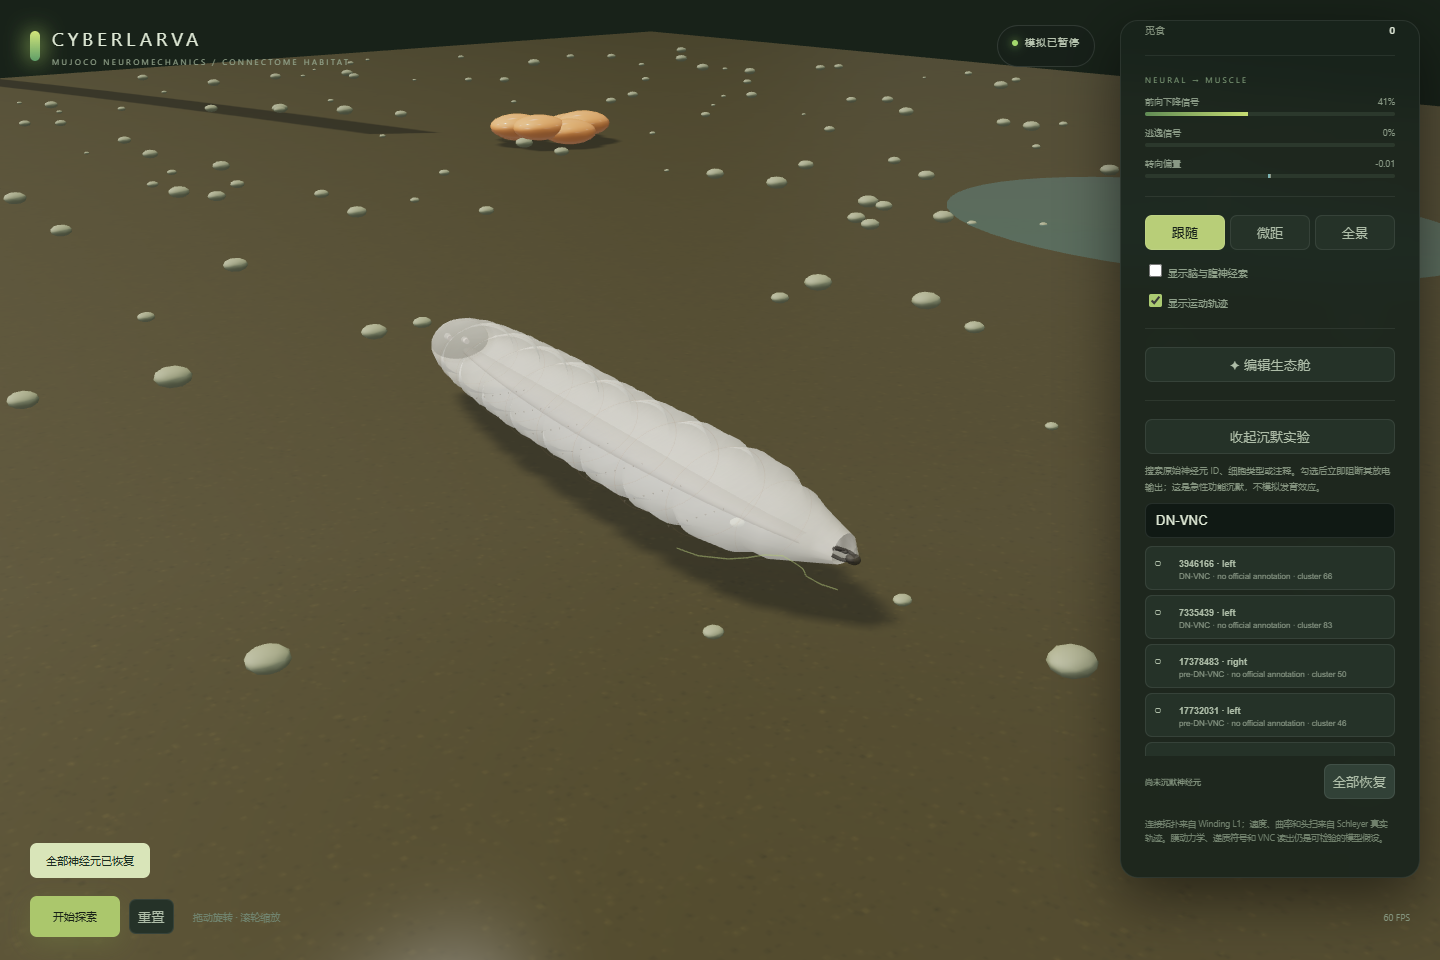
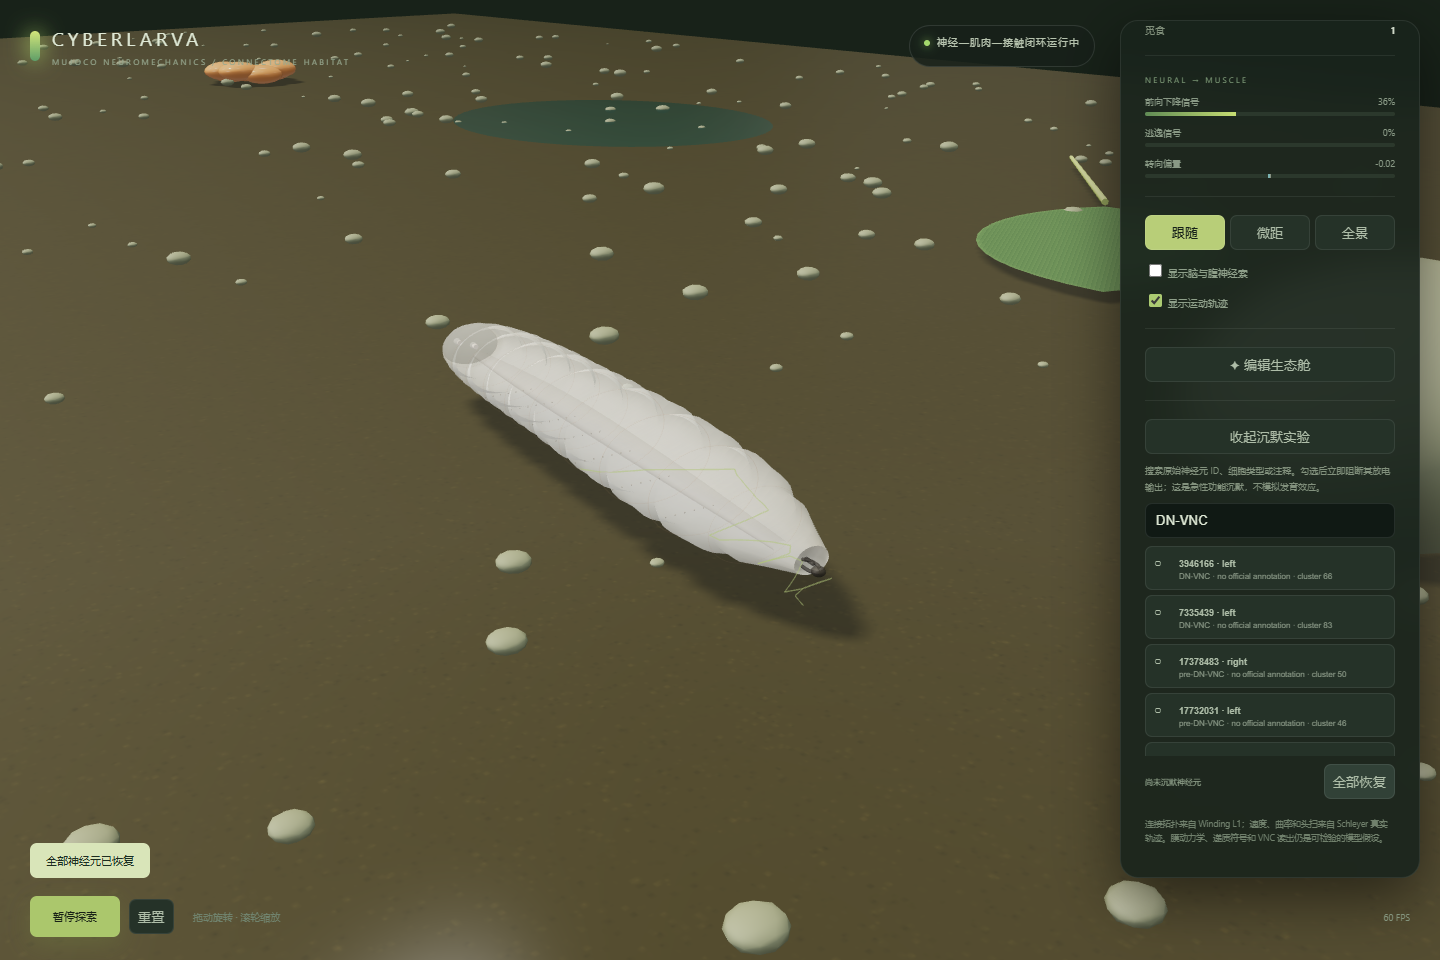
Fix larva gait food refresh and overview camera

diff --git a/web/main.js b/web/main.js
@@ -49,7 +49,7 @@ async function poll(){try{latest=await(await fetch('/api/state')).json();if(late
  if(pathLine){scene.remove(pathLine);pathLine.geometry.dispose()}pathLine=new T.Line(new T.BufferGeometry().setFromPoints(latest.trail.map(p=>new T.Vector3(p[0],.025,p[1]))),pathMat);pathLine.visible=$('trail').checked;scene.add(pathLine);
  }catch(e){$('status').textContent='本地服务连接中断'}setTimeout(poll,100)}
 buildWorld(await(await fetch('/api/world')).json());latest=await(await fetch('/api/state')).json();camera.position.set(14,3.2,13);controls.target.set(11.4,.2,9.4);controls.update();poll();setTimeout(()=>view('follow'),350);
-function view(v){let target=v==='overview'?segMeshes[0].position.clone():segMeshes[v==='macro'?3:4].position.clone(),off=v==='macro'?new T.Vector3(1.6,.7,1.35):v==='overview'?new T.Vector3(12,18,12):new T.Vector3(2.25,1.25,2.05);controls.target.copy(target);camera.position.copy(target).add(off);follow=v!=='overview';for(let k of ['follow','macro','overview'])$(k).classList.toggle('selected',k===v)}for(let k of ['follow','macro','overview'])$(k).onclick=()=>view(k);
+function view(v){let target,off;if(v==='overview'){let w=mapData?.grid?.[0]?.length||24,h=mapData?.grid?.length||20,span=Math.max(w,h);target=new T.Vector3(w/2,0,h/2);off=new T.Vector3(span*.52,span*.70,span*.52)}else{target=segMeshes[v==='macro'?3:4].position.clone();off=v==='macro'?new T.Vector3(1.6,.7,1.35):new T.Vector3(2.25,1.25,2.05)}controls.target.copy(target);camera.position.copy(target).add(off);controls.enablePan=v==='overview';controls.minDistance=v==='overview'?4:.7;controls.maxDistance=v==='overview'?60:42;controls.update();follow=v!=='overview';window.cyberLarvaView={mode:v,target:target.toArray(),position:camera.position.toArray()};for(let k of ['follow','macro','overview'])$(k).classList.toggle('selected',k===v)}for(let k of ['follow','macro','overview'])$(k).onclick=()=>view(k);
 $('play').onclick=()=>cmd({action:'pause',value:!latest.paused});$('reset').onclick=()=>cmd({action:'reset'});$('neural').onchange=()=>neuralGroup.visible=$('neural').checked;$('trail').onchange=()=>{if(pathLine)pathLine.visible=$('trail').checked};
 const tools=[['food','食物'],['leaf','叶片'],['rock','岩石'],['fungus','菌簇'],['puddle','水洼'],['wall','障碍'],['floor','清墙'],['spawn','出生点']];for(let [k,n] of tools){let b=document.createElement('button');b.textContent=n;b.classList.toggle('selected',k===selected);b.onclick=()=>{selected=k;[...$('palette').children].forEach(x=>x.classList.toggle('selected',x===b))};$('palette').appendChild(b)}$('editor').onclick=async()=>{editing=!editing;$('editpanel').hidden=!editing;$('editor').textContent=editing?'完成编辑':'✦ 编辑生态舱';if(editing){await cmd({action:'pause',value:true});view('overview');toast('单击放置，右键擦除')}};for(let a of ['save','load','garden'])$(a).onclick=()=>cmd({action:a}).then(()=>toast({save:'地图已保存',load:'地图已载入',garden:'自然生态舱已复原'}[a])).catch(e=>toast(e.message));
 let lesionOpen=false,neuronTimer;async function loadNeurons(){let q=encodeURIComponent($('neuronsearch').value.trim()),data=await(await fetch('/api/neurons?q='+q+'&limit=80')).json(),box=$('neuronresults');box.replaceChildren();for(let n of data.neurons){let b=document.createElement('button'),mark=document.createElement('span'),copy=document.createElement('span'),title=document.createElement('b'),meta=document.createElement('small');b.className='neuron'+(n.disabled?' selected':'');mark.textContent=n.disabled?'✓':'○';title.textContent=(n.name?n.name+' · ':'')+(n.id||n.index)+(n.side?' · '+n.side:'');meta.textContent=[n.celltype,n.annotations,n.ontology_id,n.cluster&&('cluster '+n.cluster)].filter(Boolean).join(' · ')||('connectome index '+n.index);copy.append(title,meta);b.append(mark,copy);b.title=n.reported_function||'';b.onclick=async()=>{await cmd({action:'knockout',mode:n.disabled?'remove':'add',indices:[n.index]});await loadNeurons();toast(n.disabled?'神经元已恢复':'神经元已沉默')};box.appendChild(b)}$('kosummary').textContent=data.knockout.count?('已沉默 '+data.knockout.count+' 个神经元'):'尚未沉默神经元'}$('lesion').onclick=()=>{lesionOpen=!lesionOpen;$('lesionpanel').hidden=!lesionOpen;$('lesion').textContent=lesionOpen?'收起沉默实验':'◇ 神经元沉默实验';if(lesionOpen)loadNeurons()};$('neuronsearch').oninput=()=>{clearTimeout(neuronTimer);neuronTimer=setTimeout(loadNeurons,180)};$('clearKO').onclick=async()=>{await cmd({action:'clear_knockout'});await loadNeurons();toast('全部神经元已恢复')};
@@ -60,15 +60,15 @@ function animate(now){requestAnimationFrame(animate);let dt=Math.min(.05,(now-la
   for(let i=0;i<11;i++){let p=latest.segments[i],s=segMeshes[i];s.position.lerp(new T.Vector3(p.x,p.z,p.y),1-Math.exp(-dt*18));nerveNodes[i].position.copy(s.position).add(new T.Vector3(0,.015,0));nerveNodes[i].scale.setScalar(.010+p.muscle*.012);pts.push(nerveNodes[i].position.clone())}
   const curve=new T.CatmullRomCurve3(segMeshes.map(s=>s.position.clone()),false,'centripetal'),point=new T.Vector3(),tangent=new T.Vector3(),side=new T.Vector3();
   // Resample the 11 MuJoCo bodies into a smooth, high-resolution living skin.
-  for(let i=0;i<skinRings;i++){let t=i/(skinRings-1),x=t*10,lo=Math.min(9,Math.floor(x)),f=x-lo,m=T.MathUtils.lerp(latest.segments[lo].muscle,latest.segments[lo+1].muscle,f);curve.getPointAt(t,point);curve.getTangentAt(t,tangent);side.set(-tangent.z,0,tangent.x).normalize();let d=x-Math.round(x),groove=Math.exp(-Math.pow(d/.13,2)),shoulder=Math.exp(-Math.pow((Math.abs(d)-.23)/.085,2)),seam=Math.min(t,1-t)>.025?1-.125*groove+.032*shoulder:1,r=profileRadius(t)*(1-m*.06)*seam;for(let j=0;j<skinSides;j++){let a=j/skinSides*Math.PI*2,vertical=Math.sin(a),micro=1+.006*Math.sin(t*163+Math.sin(a*7)*1.7)+.0035*Math.sin(a*17+t*53),height=r*(vertical>0?.80:.62)*micro,lobing=(1+.015*Math.cos(a*2))*micro,v=point.clone().addScaledVector(side,Math.cos(a)*r*lobing).addScaledVector(up,vertical*height+.003*Math.sin(t*Math.PI));let k=(i*skinSides+j)*3;skinPos[k]=v.x;skinPos[k+1]=v.y;skinPos[k+2]=v.z}}
-  curve.getPointAt(0,point);curve.getTangentAt(0,tangent).negate();point.addScaledVector(tangent,.038);skinPos[headCenter*3]=point.x;skinPos[headCenter*3+1]=point.y;skinPos[headCenter*3+2]=point.z;curve.getPointAt(1,point);curve.getTangentAt(1,tangent);point.addScaledVector(tangent,.040);skinPos[tailCenter*3]=point.x;skinPos[tailCenter*3+1]=point.y;skinPos[tailCenter*3+2]=point.z;skinGeo.attributes.position.needsUpdate=true;skinGeo.computeVertexNormals();
+  for(let i=0;i<skinRings;i++){let t=i/(skinRings-1),x=t*10,lo=Math.min(9,Math.floor(x)),f=x-lo,m=T.MathUtils.lerp(latest.segments[lo].muscle,latest.segments[lo+1].muscle,f);curve.getPoint(t,point);curve.getTangent(t,tangent);side.set(-tangent.z,0,tangent.x).normalize();let d=x-Math.round(x),groove=Math.exp(-Math.pow(d/.13,2)),shoulder=Math.exp(-Math.pow((Math.abs(d)-.23)/.085,2)),seam=Math.min(t,1-t)>.025?1-.125*groove+.032*shoulder:1,r=profileRadius(t)*(1+m*.13)*seam;for(let j=0;j<skinSides;j++){let a=j/skinSides*Math.PI*2,vertical=Math.sin(a),micro=1+.006*Math.sin(t*163+Math.sin(a*7)*1.7)+.0035*Math.sin(a*17+t*53),height=r*(vertical>0?.80:.62)*micro,lobing=(1+.015*Math.cos(a*2))*micro,v=point.clone().addScaledVector(side,Math.cos(a)*r*lobing).addScaledVector(up,vertical*height+.003*Math.sin(t*Math.PI));let k=(i*skinSides+j)*3;skinPos[k]=v.x;skinPos[k+1]=v.y;skinPos[k+2]=v.z}}
+  curve.getPoint(0,point);curve.getTangent(0,tangent).negate();point.addScaledVector(tangent,.038);skinPos[headCenter*3]=point.x;skinPos[headCenter*3+1]=point.y;skinPos[headCenter*3+2]=point.z;curve.getPoint(1,point);curve.getTangent(1,tangent);point.addScaledVector(tangent,.040);skinPos[tailCenter*3]=point.x;skinPos[tailCenter*3+1]=point.y;skinPos[tailCenter*3+2]=point.z;skinGeo.attributes.position.needsUpdate=true;skinGeo.computeVertexNormals();
   // A narrower internal tube makes the translucent body read as biological tissue.
-  for(let i=0;i<gutRings;i++){let t=i/(gutRings-1),tt=.055+t*.9;curve.getPointAt(tt,point);curve.getTangentAt(tt,tangent);side.set(-tangent.z,0,tangent.x).normalize();let r=.019+.023*Math.sin(t*Math.PI);for(let j=0;j<gutSides;j++){let a=j/gutSides*Math.PI*2,v=point.clone().addScaledVector(side,Math.cos(a)*r).addScaledVector(up,Math.sin(a)*r*.62-.012),k=(i*gutSides+j)*3;gutPos[k]=v.x;gutPos[k+1]=v.y;gutPos[k+2]=v.z}}gutGeo.attributes.position.needsUpdate=true;gutGeo.computeVertexNormals();
-  for(let i=0;i<11;i++){let t=i/10,p=latest.segments[i];curve.getPointAt(t,point);curve.getTangentAt(t,tangent);let ring=muscleRings[i],r=profileRadius(t);ring.position.copy(point);ring.quaternion.setFromUnitVectors(zAxis,tangent);ring.scale.set(r*.995,r*.72,r*.995);ring.material.opacity=.08+p.muscle*.07}
-  let di=0,denticleMatrix=new T.Matrix4(),denticleQuat=new T.Quaternion(),denticleScale=new T.Vector3(1,1,1),yAxis=new T.Vector3(0,1,0);for(let band=0;band<7;band++){let t=.24+band*.095;curve.getPointAt(t,point);curve.getTangentAt(t,tangent);side.set(-tangent.z,0,tangent.x).normalize();let r=profileRadius(t);for(let tooth=-3;tooth<=3;tooth++){let lateral=tooth/3*r*.54,pos=point.clone().addScaledVector(side,lateral).addScaledVector(up,-r*.61),normal=up.clone().multiplyScalar(-1).addScaledVector(side,tooth*.07).normalize();denticleQuat.setFromUnitVectors(yAxis,normal);denticleMatrix.compose(pos,denticleQuat,denticleScale);denticleMesh.setMatrixAt(di++,denticleMatrix)}}denticleMesh.instanceMatrix.needsUpdate=true;
-  let h=curve.getPointAt(0,new T.Vector3()),forward=curve.getTangentAt(0,new T.Vector3()).negate();mouth.position.copy(h).addScaledVector(forward,.031).add(new T.Vector3(0,-.010,0));mouth.quaternion.setFromUnitVectors(xAxis,forward);let tailDir=curve.getTangentAt(1,new T.Vector3());posterior.position.copy(curve.getPointAt(1,new T.Vector3())).addScaledVector(tailDir,.031);posterior.quaternion.setFromUnitVectors(xAxis,tailDir);
-  curve.getTangentAt(.07,tangent);side.set(-tangent.z,0,tangent.x).normalize();let brainCenter=curve.getPointAt(.07,new T.Vector3()).add(new T.Vector3(0,.018,0));brainL.position.copy(brainCenter).addScaledVector(side,.027);brainR.position.copy(brainCenter).addScaledVector(side,-.027);nerveLine.geometry.dispose();nerveLine.geometry=new T.BufferGeometry().setFromPoints(pts);
+  for(let i=0;i<gutRings;i++){let t=i/(gutRings-1),tt=.055+t*.9;curve.getPoint(tt,point);curve.getTangent(tt,tangent);side.set(-tangent.z,0,tangent.x).normalize();let r=.019+.023*Math.sin(t*Math.PI);for(let j=0;j<gutSides;j++){let a=j/gutSides*Math.PI*2,v=point.clone().addScaledVector(side,Math.cos(a)*r).addScaledVector(up,Math.sin(a)*r*.62-.012),k=(i*gutSides+j)*3;gutPos[k]=v.x;gutPos[k+1]=v.y;gutPos[k+2]=v.z}}gutGeo.attributes.position.needsUpdate=true;gutGeo.computeVertexNormals();
+  for(let i=0;i<11;i++){let t=i/10,p=latest.segments[i];curve.getPoint(t,point);curve.getTangent(t,tangent);let ring=muscleRings[i],r=profileRadius(t)*(1+p.muscle*.13);ring.position.copy(point);ring.quaternion.setFromUnitVectors(zAxis,tangent);ring.scale.set(r*.995,r*.72,r*.995);ring.material.opacity=.08+p.muscle*.07}
+  let di=0,denticleMatrix=new T.Matrix4(),denticleQuat=new T.Quaternion(),denticleScale=new T.Vector3(1,1,1),yAxis=new T.Vector3(0,1,0);for(let band=0;band<7;band++){let t=.24+band*.095;curve.getPoint(t,point);curve.getTangent(t,tangent);side.set(-tangent.z,0,tangent.x).normalize();let r=profileRadius(t);for(let tooth=-3;tooth<=3;tooth++){let lateral=tooth/3*r*.54,pos=point.clone().addScaledVector(side,lateral).addScaledVector(up,-r*.61),normal=up.clone().multiplyScalar(-1).addScaledVector(side,tooth*.07).normalize();denticleQuat.setFromUnitVectors(yAxis,normal);denticleMatrix.compose(pos,denticleQuat,denticleScale);denticleMesh.setMatrixAt(di++,denticleMatrix)}}denticleMesh.instanceMatrix.needsUpdate=true;
+  let h=curve.getPoint(0,new T.Vector3()),forward=curve.getTangent(0,new T.Vector3()).negate();mouth.position.copy(h).addScaledVector(forward,.031).add(new T.Vector3(0,-.010,0));mouth.quaternion.setFromUnitVectors(xAxis,forward);let tailDir=curve.getTangent(1,new T.Vector3());posterior.position.copy(curve.getPoint(1,new T.Vector3())).addScaledVector(tailDir,.031);posterior.quaternion.setFromUnitVectors(xAxis,tailDir);
+  curve.getTangent(.07,tangent);side.set(-tangent.z,0,tangent.x).normalize();let brainCenter=curve.getPoint(.07,new T.Vector3()).add(new T.Vector3(0,.018,0));brainL.position.copy(brainCenter).addScaledVector(side,.027);brainR.position.copy(brainCenter).addScaledVector(side,-.027);nerveLine.geometry.dispose();nerveLine.geometry=new T.BufferGeometry().setFromPoints(pts);
   if(follow&&!editing){let d=h.clone().sub(oldHead);camera.position.add(d);controls.target.add(d)}oldHead.copy(h);sun.target.position.copy(h);sun.position.copy(h).add(new T.Vector3(-7,15,4))}
- controls.update();renderer.render(scene,camera);frames++;if(now-fpsTime>1000){$('fps').textContent=Math.round(frames*1000/(now-fpsTime))+' FPS';frames=0;fpsTime=now}window.cyberLarvaReady=latest?.segments?.length===11}
+ controls.update();if(window.cyberLarvaView){window.cyberLarvaView.target=controls.target.toArray();window.cyberLarvaView.position=camera.position.toArray()}renderer.render(scene,camera);frames++;if(now-fpsTime>1000){$('fps').textContent=Math.round(frames*1000/(now-fpsTime))+' FPS';frames=0;fpsTime=now}window.cyberLarvaReady=latest?.segments?.length===11}
 requestAnimationFrame(animate);
 addEventListener('resize',()=>{camera.aspect=innerWidth/innerHeight;camera.updateProjectionMatrix();renderer.setSize(innerWidth,innerHeight)});

diff --git a/cyberlarva/physics.py b/cyberlarva/physics.py
@@ -65,7 +65,9 @@ class MuJoCoLarva:
         cast_period=1/max(self.targets['head_cast_hz'],.03);cast_age=self.time%cast_period;cast_duration=1.05
         cast_envelope=math.sin(math.pi*cast_age/cast_duration) if cast_age<cast_duration else 0.;cast_sign=-1 if int(self.time/cast_period)%2 else 1
         for i in range(1,N_SEGMENTS):
-            wave=max(0.,math.sin(self.phase+i*.66))*drive;self.muscles[i]=wave;self.data.ctrl[self.axial[i-1]]=-.00082*wave
+            # A smooth, broad posterior-to-anterior pulse makes shortening
+            # continuous instead of snapping between contracted/rest states.
+            wave=max(0.,math.sin(self.phase+i*.66))**1.35*drive;self.muscles[i]=wave;self.data.ctrl[self.axial[i-1]]=-.0010*wave
             head_weight=math.exp(-(i-1)*.28);target=(neural.turn*.82+math.sin(self.bend_phase+i*.13)*neural.head_sweep*.10+cast_sign*cast_envelope*neural.head_sweep*.40)*head_weight*relief
             self.data.ctrl[self.bend[i-1]]=float(np.clip(target,-.7,.7))
         self.muscles[0]=max(0.,math.sin(self.phase))*drive
@@ -91,4 +93,5 @@ class MuJoCoLarva:
             if 'obstacle' in n1+n2:contacts.append('obstacle')
         radii=[.1225+.0325*math.sin(math.pi*i/(N_SEGMENTS-1)) for i in range(N_SEGMENTS)]
         segments=[{'x':float(p[0]),'y':float(p[1]),'z':float(max(p[2],.001)),'radius':r,'muscle':float(self.muscles[i]),'angle':angles[i-1] if i else 0.} for i,(p,r) in enumerate(zip(rendered,radii))]
-        return {'segments':segments,'x':float(rendered[0,0]),'y':float(rendered[0,1]),'heading':heading,'delta_world':float(np.linalg.norm(delta)/WORLD_M),'contacts':contacts,'contact_count':int(self.data.ncon),'speed_bl_s':self.current_speed,'curvature_rad_bl':self.current_curvature,'engine':'MuJoCo '+mujoco.__version__,'targets':self.targets}
+        gaps=np.linalg.norm(points[:-1]-points[1:],axis=1)/SEGMENT_STEP
+        return {'segments':segments,'x':float(rendered[0,0]),'y':float(rendered[0,1]),'heading':heading,'delta_world':float(np.linalg.norm(delta)/WORLD_M),'contacts':contacts,'contact_count':int(self.data.ncon),'speed_bl_s':self.current_speed,'curvature_rad_bl':self.current_curvature,'axial_gap_ratio':[float(v) for v in gaps],'engine':'MuJoCo '+mujoco.__version__,'targets':self.targets}

diff --git a/tests/smoke_test.py b/tests/smoke_test.py
@@ -9,19 +9,23 @@ from cyberlarva.physics import MuJoCoLarva
 world=LarvaWorld();brain=ConnectomeBrain(ROOT/'data'/'connectome');physics=MuJoCoLarva(world,ROOT/'config'/'trajectory_calibration.json')
 target=int(brain.forward_dn[0]);brain.set_knockout([target])
 start=(world.x,world.y)
-speeds=[];contacts=[]
+speeds=[];contacts=[];gap_ratios=[]
 for _ in range(100):
     neural=brain.step(world.senses())
-    pose=physics.step(neural);world.sync_physics(pose,neural);speeds.append(pose['speed_bl_s']);contacts.append(pose['contact_count'])
+    pose=physics.step(neural);world.sync_physics(pose,neural);speeds.append(pose['speed_bl_s']);contacts.append(pose['contact_count']);gap_ratios.extend(pose['axial_gap_ratio'])
 assert brain.n==2952,brain.n
 assert neural.source=='Winding L1 topology'
 assert len(world.segments)==11
 assert world.distance>0
 assert pose['engine'].startswith('MuJoCo') and max(contacts)>0
+assert min(gap_ratios)<.82,(min(gap_ratios),max(gap_ratios))
 assert 0<=neural.forward<=1 and -1<=neural.turn<=1
 assert neural.knockout_count==1 and brain.disabled[target]
 assert brain.v[target]==0 and brain.rate[target]==0 and brain.last_spikes[target]==0
 assert brain.neuron_catalog(str(brain.neurons[target]['id']),10)
 assert len(brain.neuron_catalog('MDNa',10))==2
 brain.set_knockout([], 'set');assert not brain.disabled.any()
+# Eating is a world mutation, so the server can invalidate the rendered item layer.
+food=next(i for i in world.items if i.kind=='food');feeding_pose=pose|{'x':food.x,'y':food.y}
+assert world.sync_physics(feeding_pose,neural) is True and food not in world.items
 print({'neurons':brain.n,'connections':brain.W.nnz,'active':neural.active,'distance':round(world.distance,3),'speed_bl_s':round(sum(speeds)/len(speeds),3),'contacts':round(sum(contacts)/len(contacts),1),'engine':pose['engine'],'source':neural.source})

diff --git a/cyberlarva/world.py b/cyberlarva/world.py
@@ -61,15 +61,17 @@ class LarvaWorld:
                 'touch_lr': float(al)-float(ar), 'proprio': min(1,stretch*2), 'noci': float(ahead)*.18}
 
     def sync_physics(self, pose, neural, dt=.02):
+        items_changed = False
         previous=(self.x,self.y);self.x,self.y,self.heading=pose['x'],pose['y'],pose['heading']
         self.segments=pose['segments'];self.muscles=[s['muscle'] for s in self.segments]
         self.physics_touch=float(bool(pose['contacts']));self.distance+=math.hypot(self.x-previous[0],self.y-previous[1]);self.time+=dt
         self.behavior='backward escape' if neural.backward>.45 else 'head casting' if neural.head_sweep>.58 else 'forward crawling' if neural.forward>.3 else 'resting'
         for item in list(self.items):
             if item.kind=='food' and math.hypot(self.x-item.x,self.y-item.y)<item.radius+.35:
-                self.items.remove(item);self.foods_found+=1;self.behavior='feeding'
+                self.items.remove(item);self.foods_found+=1;self.behavior='feeding';items_changed=True
         if not self.trail or math.hypot(self.x-self.trail[-1][0],self.y-self.trail[-1][1])>.035:self.trail.append([self.x,self.y])
         self.trail=self.trail[-600:]
+        return items_changed
 
     def step(self, neural, dt=.02):
         direction = neural.forward - neural.backward

diff --git a/server.py b/server.py
@@ -23,7 +23,9 @@ class Simulation:
                 start=time.perf_counter()
                 with self.lock:
                     if not self.paused:
-                        n=self.brain.step(self.world.senses());physics_start=time.perf_counter();self.physics_stats=self.physics.step(n,.02);physics_ms=(time.perf_counter()-physics_start)*1000;self.world.sync_physics(self.physics_stats,n,.02);self.stats=n.__dict__|{'physics_ms':physics_ms,'speed_bl_s':self.physics_stats['speed_bl_s'],'curvature_rad_bl':self.physics_stats['curvature_rad_bl']}
+                        n=self.brain.step(self.world.senses());physics_start=time.perf_counter();self.physics_stats=self.physics.step(n,.02);physics_ms=(time.perf_counter()-physics_start)*1000
+                        if self.world.sync_physics(self.physics_stats,n,.02):self.revision+=1
+                        self.stats=n.__dict__|{'physics_ms':physics_ms,'speed_bl_s':self.physics_stats['speed_bl_s'],'curvature_rad_bl':self.physics_stats['curvature_rad_bl']}
                 time.sleep(max(.001,.02-(time.perf_counter()-start)))
         except Exception as exc:self.error=str(exc)
     def state(self):
